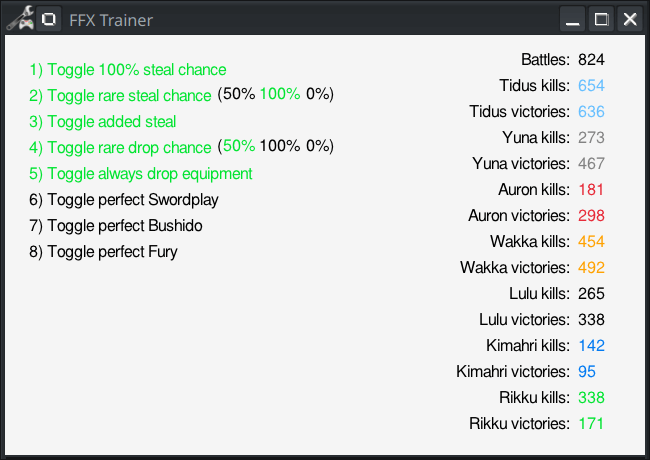
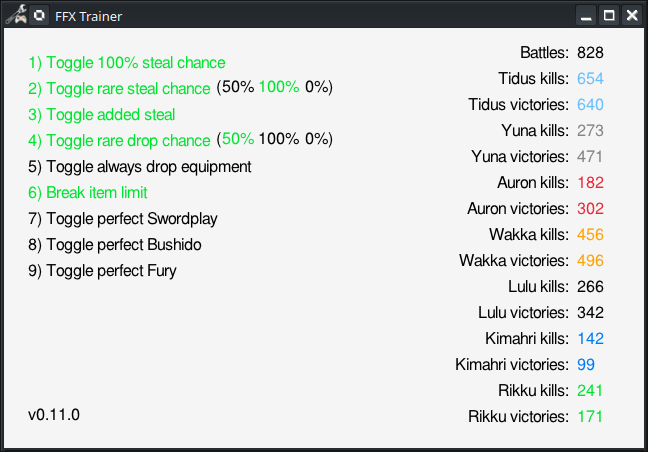
Add option to break item limit of 99

diff --git a/src/main.c b/src/main.c
@@ -45,6 +45,7 @@ int main() {
 	window_create(SCREEN_WIDTH, SCREEN_HEIGHT, FPS, "FFX Trainer", icon);
 
 	uint16_t framesSinceDataUpdate = 300;
+	#define RESET_RENDER_TIMER() (framesSinceDataUpdate = FPS * 5)
 	char battleCountString[8] = {0};
 	CharacterString kills = {0};
 	CharacterString victories = {0};
@@ -68,6 +69,7 @@ int main() {
 	Color perfectFuryColour = BLACK;
 	Color perfectBushidoColour = BLACK;
 	Color perfectSwordplayColour = BLACK;
+	Color breakItemLimitColour = BLACK;
 
 	#ifdef _WIN32
 	bool isGameRunning = fd != NULL;
@@ -162,7 +164,7 @@ int main() {
 						bytes[2] = RARE_STEAL_CHANCE_ORIGINAL_2;
 					}
 					writeToMemory(fd, base, RARE_STEAL_CHANCE_LOCATION, 3, bytes);
-					framesSinceDataUpdate = FPS * 5;
+					RESET_RENDER_TIMER();
 					break;
 				}
 				case '3': {
@@ -173,7 +175,7 @@ int main() {
 						}
 						: (uint8_t[2]){NO_OP, NO_OP};
 					writeToMemory(fd, base, ADDED_STEAL_LOCATION, 2, bytes);
-					framesSinceDataUpdate = FPS * 5;
+					RESET_RENDER_TIMER();
 					break;
 				}
 				case '4': {
@@ -188,7 +190,7 @@ int main() {
 						bytes[0] = MORE_RARE_DROPS_ORIGINAL;
 					}
 					writeToMemory(fd, base, MORE_RARE_DROPS_LOCATION, 1, bytes);
-					framesSinceDataUpdate = FPS * 5;
+					RESET_RENDER_TIMER();
 					break;
 				}
 				case '5': {
@@ -196,26 +198,39 @@ int main() {
 						? (uint8_t[1]){ALWAYS_DROP_EQUIPMENT_ORIGINAL}
 						: (uint8_t[1]){ALWAYS_DROP_EQUIPMENT_NEW};
 					writeToMemory(fd, base, ALWAYS_DROP_EQUIPMENT_LOCATION, 1, bytes);
-					framesSinceDataUpdate = FPS * 5;
+					RESET_RENDER_TIMER();
 					break;
 				}
 				case '6': {
+					uint8_t *byte = mask & BREAK_ITEM_LIMIT_TOGGLED
+						? (uint8_t[1]){BREAK_ITEM_LIMIT_ORIGINAL}
+						: (uint8_t[1]){BREAK_ITEM_LIMIT_NEW};
+					writeToMemory(fd, base, BREAK_ITEM_LIMIT_LOCATION_1, 1, byte);
+					writeToMemory(fd, base, BREAK_ITEM_LIMIT_LOCATION_2, 1, byte);
+					byte = mask & BREAK_ITEM_LIMIT_TOGGLED
+						? (uint8_t[1]){BREAK_ITEM_LIMIT_ORIGINAL_JMP}
+						: (uint8_t[1]){BREAK_ITEM_LIMIT_NEW_JMP};
+					writeToMemory(fd, base, BREAK_ITEM_LIMIT_LOCATION_2, 1, byte);
+					RESET_RENDER_TIMER();
+					break;
+				}
+				case '7': {
 					uint8_t *bytes = mask & PERFECT_TIDUS_OD_TOGGLED
 						? (uint8_t[6]){TIDUS_PERFECT_LIMIT_ORIGINAL}
 						: (uint8_t[6]){TIDUS_PERFECT_LIMIT_NEW};
 					writeToMemory(fd, base, TIDUS_PERFECT_LIMIT_LOCATION, 6, bytes);
-					framesSinceDataUpdate = FPS * 5;
+					RESET_RENDER_TIMER();
 					break;
 				}
-				case '7': {
+				case '8': {
 					uint8_t *bytes = mask & PERFECT_AURON_OD_TOGGLED
 						? (uint8_t[7]){AURON_PERFECT_LIMIT_ORIGINAL}
 						: (uint8_t[7]){AURON_PERFECT_LIMIT_NEW};
 					writeToMemory(fd, base, AURON_PERFECT_LIMIT_LOCATION, 7, bytes);
-					framesSinceDataUpdate = FPS * 5;
+					RESET_RENDER_TIMER();
 					break;
 				}
-				case '8': {
+				case '9': {
 					uint8_t *bytes = mask & PERFECT_LULU_OD_TOGGLED
 						// TODO: put byte length in constant
 						? (uint8_t[6]){LULU_PERFECT_LIMIT_ORIGINAL_1}
@@ -225,7 +240,7 @@ int main() {
 						? (uint8_t[7]){LULU_PERFECT_LIMIT_ORIGINAL_2}
 						: (uint8_t[7]){LULU_PERFECT_LIMIT_NEW_2};
 					writeToMemory(fd, base, LULU_PERFECT_LIMIT_LOCATION_2, 7, bytes);
-					framesSinceDataUpdate = FPS * 5;
+					RESET_RENDER_TIMER();
 					break;
 				}
 				default:
@@ -331,12 +346,21 @@ int main() {
 				}
 				readFromMemory(fd, base, MORE_RARE_DROPS_LOCATION, 1, buffer);
 				moreRareDropsValue = buffer[0];
+
+				readFromMemory(fd, base, BREAK_ITEM_LIMIT_LOCATION_1, 1, buffer);
+				if (buffer[0] != BREAK_ITEM_LIMIT_ORIGINAL) {
+					mask |= BREAK_ITEM_LIMIT_TOGGLED;
+				} else {
+					mask &= ~BREAK_ITEM_LIMIT_TOGGLED;
+				}
+
 				readFromMemory(fd, base, TIDUS_PERFECT_LIMIT_LOCATION + 5, 1, buffer);
 				if (buffer[0] == NO_OP) {
 					mask |= PERFECT_TIDUS_OD_TOGGLED;
 				} else {
 					mask &= ~PERFECT_TIDUS_OD_TOGGLED;
 				}
+
 				readFromMemory(fd, base, LULU_PERFECT_LIMIT_LOCATION_2 + 5, 1, buffer);
 				if (buffer[0] == NO_OP) {
 					mask |= PERFECT_LULU_OD_TOGGLED;
@@ -364,6 +388,7 @@ int main() {
 				perfectFuryColour = mask & PERFECT_LULU_OD_TOGGLED ? GREEN : BLACK;
 				perfectBushidoColour = mask & PERFECT_AURON_OD_TOGGLED ? GREEN : BLACK;
 				perfectSwordplayColour = mask & PERFECT_TIDUS_OD_TOGGLED ? GREEN : BLACK;
+				breakItemLimitColour = mask & BREAK_ITEM_LIMIT_TOGGLED ? GREEN : BLACK;
 
 				framesSinceDataUpdate = 0;
 			}
@@ -430,6 +455,7 @@ int main() {
 		drawHackLabel(addedStealString, addedStealColour);
 		drawHackLabel(rareDropString, moreRareDropsColour);
 		drawHackLabel(alwaysDropEquipmentString, guaranteedEquipmentColour);
+		drawHackLabel(breakItemLimitString, breakItemLimitColour);
 		drawHackLabel(perfectSwordplayString, perfectSwordplayColour);
 		drawHackLabel(perfectBushidoString, perfectBushidoColour);
 		drawHackLabel(perfectFuryString, perfectFuryColour);

diff --git a/src/constants.h b/src/constants.h
@@ -4,8 +4,8 @@
 #pragma once
 
 #define VERSION_MAJOR 0
-#define VERSION_MINOR 10
-#define VERSION_PATCH 6
+#define VERSION_MINOR 11
+#define VERSION_PATCH 0
 
 #define LINE_HEIGHT 26
 #define PADDING 24
@@ -16,9 +16,10 @@ const char *rareStealString = "2) Toggle rare steal chance";
 const char *addedStealString = "3) Toggle added steal";
 const char *rareDropString = "4) Toggle rare drop chance";
 const char *alwaysDropEquipmentString = "5) Toggle always drop equipment";
-const char *perfectSwordplayString = "6) Toggle perfect Swordplay";
-const char *perfectBushidoString = "7) Toggle perfect Bushido";
-const char *perfectFuryString = "8) Toggle perfect Fury";
+const char *breakItemLimitString = "6) Break item limit";
+const char *perfectSwordplayString = "7) Toggle perfect Swordplay";
+const char *perfectBushidoString = "8) Toggle perfect Bushido";
+const char *perfectFuryString = "9) Toggle perfect Fury";
 
 const char *battlesString = "Battles:";
 const char *tidusKillsString = "Tidus kills:";
@@ -42,6 +43,7 @@ const char *rikkuVictoriesString = "Rikku victories:";
 #define GUARANTEED_STEAL_TOGGLED (1 << 3)
 #define ADDED_STEAL_TOGGLED (1 << 4)
 #define GUARANTEED_EQUIPMENT_DROP_TOGGLED (1 << 5)
+#define BREAK_ITEM_LIMIT_TOGGLED (1 << 6)
 
 #ifdef _WIN32
 #define LONG_SPECIFIER "%llu"

diff --git a/src/memory-constants.h b/src/memory-constants.h
@@ -42,6 +42,15 @@
 #define LULU_PERFECT_LIMIT_LOCATION_1 0x891c18
 #define LULU_PERFECT_LIMIT_LOCATION_2 0x891f76
 
+#define BREAK_ITEM_LIMIT_LOCATION_1 0x79061e
+#define BREAK_ITEM_LIMIT_LOCATION_2 0x79064e
+#define BREAK_ITEM_LIMIT_JMP_LOCATION 0x79a0e4
+#define BREAK_ITEM_LIMIT_ORIGINAL 99
+#define BREAK_ITEM_LIMIT_NEW 255
+#define BREAK_ITEM_LIMIT_ORIGINAL_JMP 0x7e // signed JLE
+#define BREAK_ITEM_LIMIT_NEW_JMP 0x76 // unsigned JLE
+
+
 #define TOTAL_BATTLES_LOCATION 0x11307a4
 #define TIDUS_VICTORIES_LOCATION 0x11320ac
 #define TIDUS_KILLS_LOCATION 0x11320b0

diff --git a/README.md b/README.md
@@ -21,6 +21,8 @@ This tool allows for the following cheats:
 	- 100% (for always rare drops)
 	- 50%
 - Always drop equipment
+- Break item limit (255 instead of 99). Quantities will reset to 99 if the hack is disabled and an overflowing item is
+  collected.
 - Auto-succeed Swordplay Overdrive
 - Auto-succeed Bushido Overdrive
 - Skip Fury Overdrive with a count of 12
